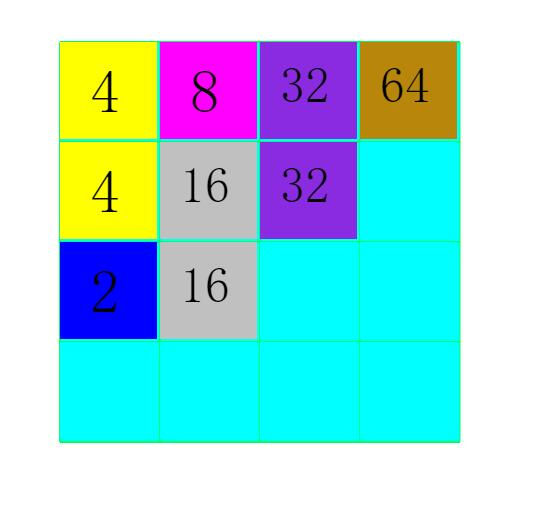
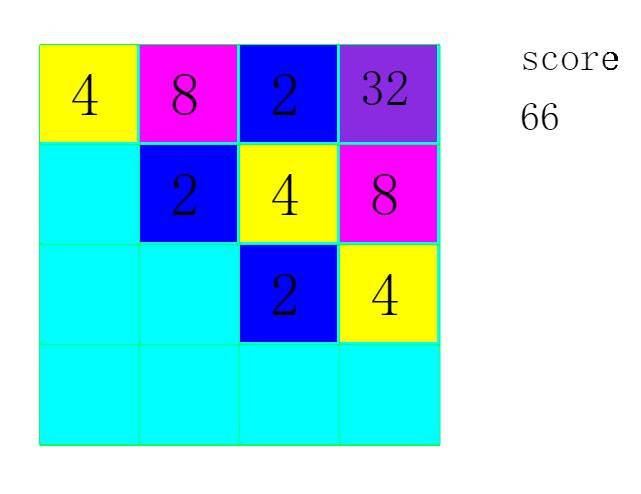
怎加了分数

diff --git a/game.js b/game.js
@@ -7,6 +7,9 @@ var color = ['red', '#0000FF', '#FFFF00', '#FF00FF', '#C0C0C0', '#8A2BE2', '#B88
 var canvas_node;
 var canvas_ctx;
 var table = []; // table 中记录的是2的幂
+var score_x=start_x+container_width*1.2;//分数的x坐标
+var score_y=start_y*1.5;//分数的y坐标
+
 
 //清空
 function clearGrid(i, j) {
@@ -41,15 +44,33 @@ function drawNumber(i, j, n) {
     }
 }
 
+//更新并绘制分数
+function drawScore() {
+    var s=0;
+    for(var i=0;i<4;i++)
+        for(var j=0;j<4;j++)
+            if(table[i][j]!=-1)
+                s+=Math.pow(2,table[i][j]);
+
+    canvas_ctx.fillStyle = '#FFFFFF';
+    canvas_ctx.fillRect(score_x-10, score_y-60, grid_offset, grid_offset+60);
+
+    canvas_ctx.fillStyle = '#000000';
+    canvas_ctx.font = "40px 宋体";
+    canvas_ctx.fillText("score", score_x, score_y);
+    canvas_ctx.font = "40px 宋体";
+    canvas_ctx.fillText(s, score_x, score_y+60);
+}
+
 // 随机生成数字
 function creatrec() {
     var i, j;
     var f = 0;
-
+    var p=10;
     for (i = 0; i < 4; i++) {
         for (j = 0; j < 4; j++) {
             if (table[i][j] === -1) {
-                var n = parseInt(Math.random() * 10);
+                var n = parseInt(Math.random() * p);
                 if (n === 0 && f < 4) {
                     table[i][j] = parseInt(Math.random() * 2) + 1;
                     drawNumber(j, i, table[i][j]);
@@ -62,7 +83,6 @@ function creatrec() {
 
 // 在空余的地方随机生成一个数字
 function generateNumber() {
-    var pow = [1, 2, 3, 4];
     var emptyTable = [];
     var i, j, s = 0;
     for (i = 0; i < 4; ++i) {
@@ -80,10 +100,10 @@ function generateNumber() {
         alert("Game Over!");
     } else {
         var k = parseInt(Math.random() * emptyTable.length);
-        var p = parseInt(Math.random() * 4);
+        var p = parseInt(Math.random() * 2)+1;
         // todo: update construction
-        table[emptyTable[k][0]][emptyTable[k][1]] = pow[p];
-        drawNumber(emptyTable[k][1], emptyTable[k][0], pow[p]);
+        table[emptyTable[k][0]][emptyTable[k][1]] = p;
+        drawNumber(emptyTable[k][1], emptyTable[k][0], p);
     }
 }
 
@@ -291,6 +311,7 @@ document.onkeydown = function(event) {
     }
     if (f === 1) {
         creatrec();
+        drawScore();
     }
 };
 
@@ -334,6 +355,7 @@ function init() {
 
     // 生成初始数字
     generateNumber();
-    // creatrec();
-
+    generateNumber();
+    creatrec();
+    drawScore();
 }
